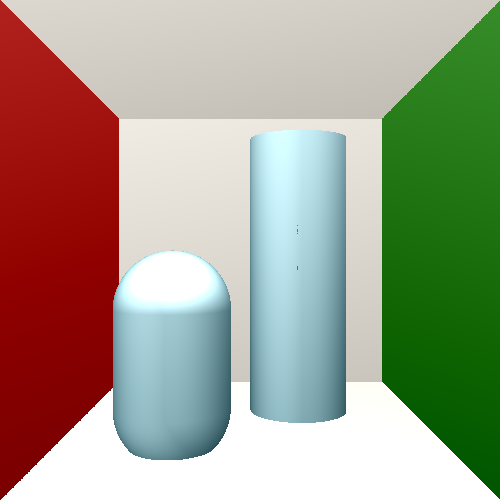
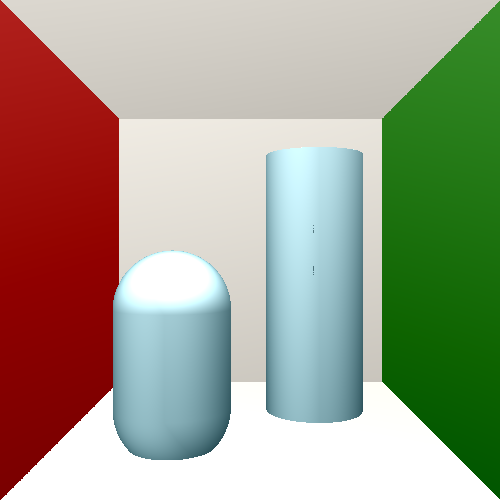
added more scene params

Changed region(s): [[0.48, 0.24, 0.75, 0.87], [0.57, 0.84, 0.6, 0.87]]

diff --git a/src/hello.cpp b/src/hello.cpp
@@ -136,15 +136,33 @@ float sdfSphere(const vec3 pos) {
 
 
 typedef struct {
-    float offset;
+    float object_1_x;
+    float object_1_y;
+    float object_1_z;
+    float object_1_r;
+    float object_1_h;
+    float object_2_x;
+    float object_2_y;
+    float object_2_z;
+    float object_2_r;
+    float object_2_h;
 } SceneParams;
 
 void params_from_float_pointer(const float *params, SceneParams *out) {
-    out->offset = params[0];
+    out->object_1_x = params[0];
+    out->object_1_y = params[1];
+    out->object_1_z = params[2];
+    out->object_1_r = params[3];
+    out->object_1_h = params[4];
+    out->object_2_x = params[5];
+    out->object_2_y = params[6];
+    out->object_2_z = params[7];
+    out->object_2_r = params[8];
+    out->object_2_h = params[9];
 }
 
 const float *float_pointer_from_params(const SceneParams *out) {
-    return &out->offset;
+    return &out->object_1_x;
 }
 
 typedef struct {
@@ -207,20 +225,25 @@ static inline void compose_scene_sample(SdfResult *destination, SdfResult *b) {
 //     compose_scene_sample(sample, &working);
 // }
 static inline void object_cylinder(const vec3 pos, const SceneParams *params, SdfResult *sample) {
-    vec3 offset = {-0.4f, -0.2f, 0.2f};
-    offset[0] += params->offset;
+    vec3 offset = {
+        params->object_1_x,
+        params->object_1_y,
+        params->object_1_z};
     vec3 pos_offset;
     vec3_add(pos_offset, pos, offset);
-    sample->distance = sdfCylinder(pos_offset, 0.3f, 0.9f);
+    sample->distance = sdfCylinder(pos_offset, params->object_1_r, params->object_1_h);
     vec3_set(sample->diffuse, 0.4860f, 0.6310f, 0.6630f);
     vec3_set(sample->ambient, 0.4860f, 0.6310f, 0.6630f);
     vec3_set(sample->specular, 0.8f, 0.8f, 0.8f);
 }
 static inline void object_capsule(const vec3 pos, const SceneParams *params, SdfResult *sample) {
-    vec3 offset = {0.4f, -0.3f, -0.5f};
+    vec3 offset = {
+        params->object_2_x,
+        params->object_2_y,
+        params->object_2_z};
     vec3 pos_offset;
     vec3_add(pos_offset, pos, offset);
-    sample->distance = sdfVerticalCapsule(pos_offset, 0.5f, 0.3f);
+    sample->distance = sdfVerticalCapsule(pos_offset, params->object_2_h, params->object_2_r);
     vec3_set(sample->diffuse, 0.4860f, 0.6310f, 0.6630f);
     vec3_set(sample->ambient, 0.4860f, 0.6310f, 0.6630f);
     vec3_set(sample->specular, 0.8f, 0.8f, 0.8f);
@@ -552,9 +575,18 @@ extern void __enzyme_fwddiff_radiance(void *, int, float *, float *, int, Random
 
 void render_get_gradient_helper(vec3 real, vec3 gradient, RandomState *rng, const vec3 origin, const vec3 direction) {
     SceneParams params;
-    params.offset = 0.1f;
+    params.object_1_x = -0.4f;
+    params.object_1_y = -0.2f;
+    params.object_1_z = 0.2f;
+    params.object_1_r = 0.3f;
+    params.object_1_h = 0.8f;
+    params.object_2_x = 0.4f;
+    params.object_2_y = -0.3f;
+    params.object_2_z = -0.5f;
+    params.object_2_r = 0.3f;
+    params.object_2_h = 0.5f;
     const float *raw_params = float_pointer_from_params(&params);
-    float d_param = 1.0f;
+    float d_param = 1.f;
 
     vec3 radiance;
     vec3_set(radiance, 1.f);
@@ -677,8 +709,8 @@ void render_image(Image *real, Image *gradient, RandomState *rng) {
 
             vec3 out_real;
             vec3 out_gradient;
-            SceneParams params;
-            params.offset = 0.0f;
+            // SceneParams params;
+            // params.offset = 0.0f;
             render_get_gradient_helper(out_real, out_gradient, rng, camera_position, direction);
 
             image_set(real, ir, ic, out_real);
